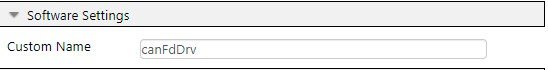
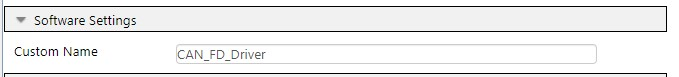
readme changes as per custom name change during review

Changed region(s): [[0.0, 0.0, 1.0, 1.0], [0.2482, 0.5429, 0.8996, 0.8571]]

diff --git a/README.md b/README.md
@@ -80,7 +80,7 @@ This Project uses the driver code generated by **MCC-Melody**.
 **CAN FD Configuration**
 
 - CAN FD Configuration done in MCC Melody User Interface for this demo code. <br>
-- Custom name to `canFdDrv` <br>
+- Custom name to `CAN_FD_Driver` <br>
   ![custom name](images/can_custom_name.jpg)
 - Clock and Nominal Bit-Rate Settings: Set CAN clock to 20 MHz, nominal bit rate to 1Mbps and sample point to 80%<br>
   ![step1-step2](images/step1_step2.jpg)
